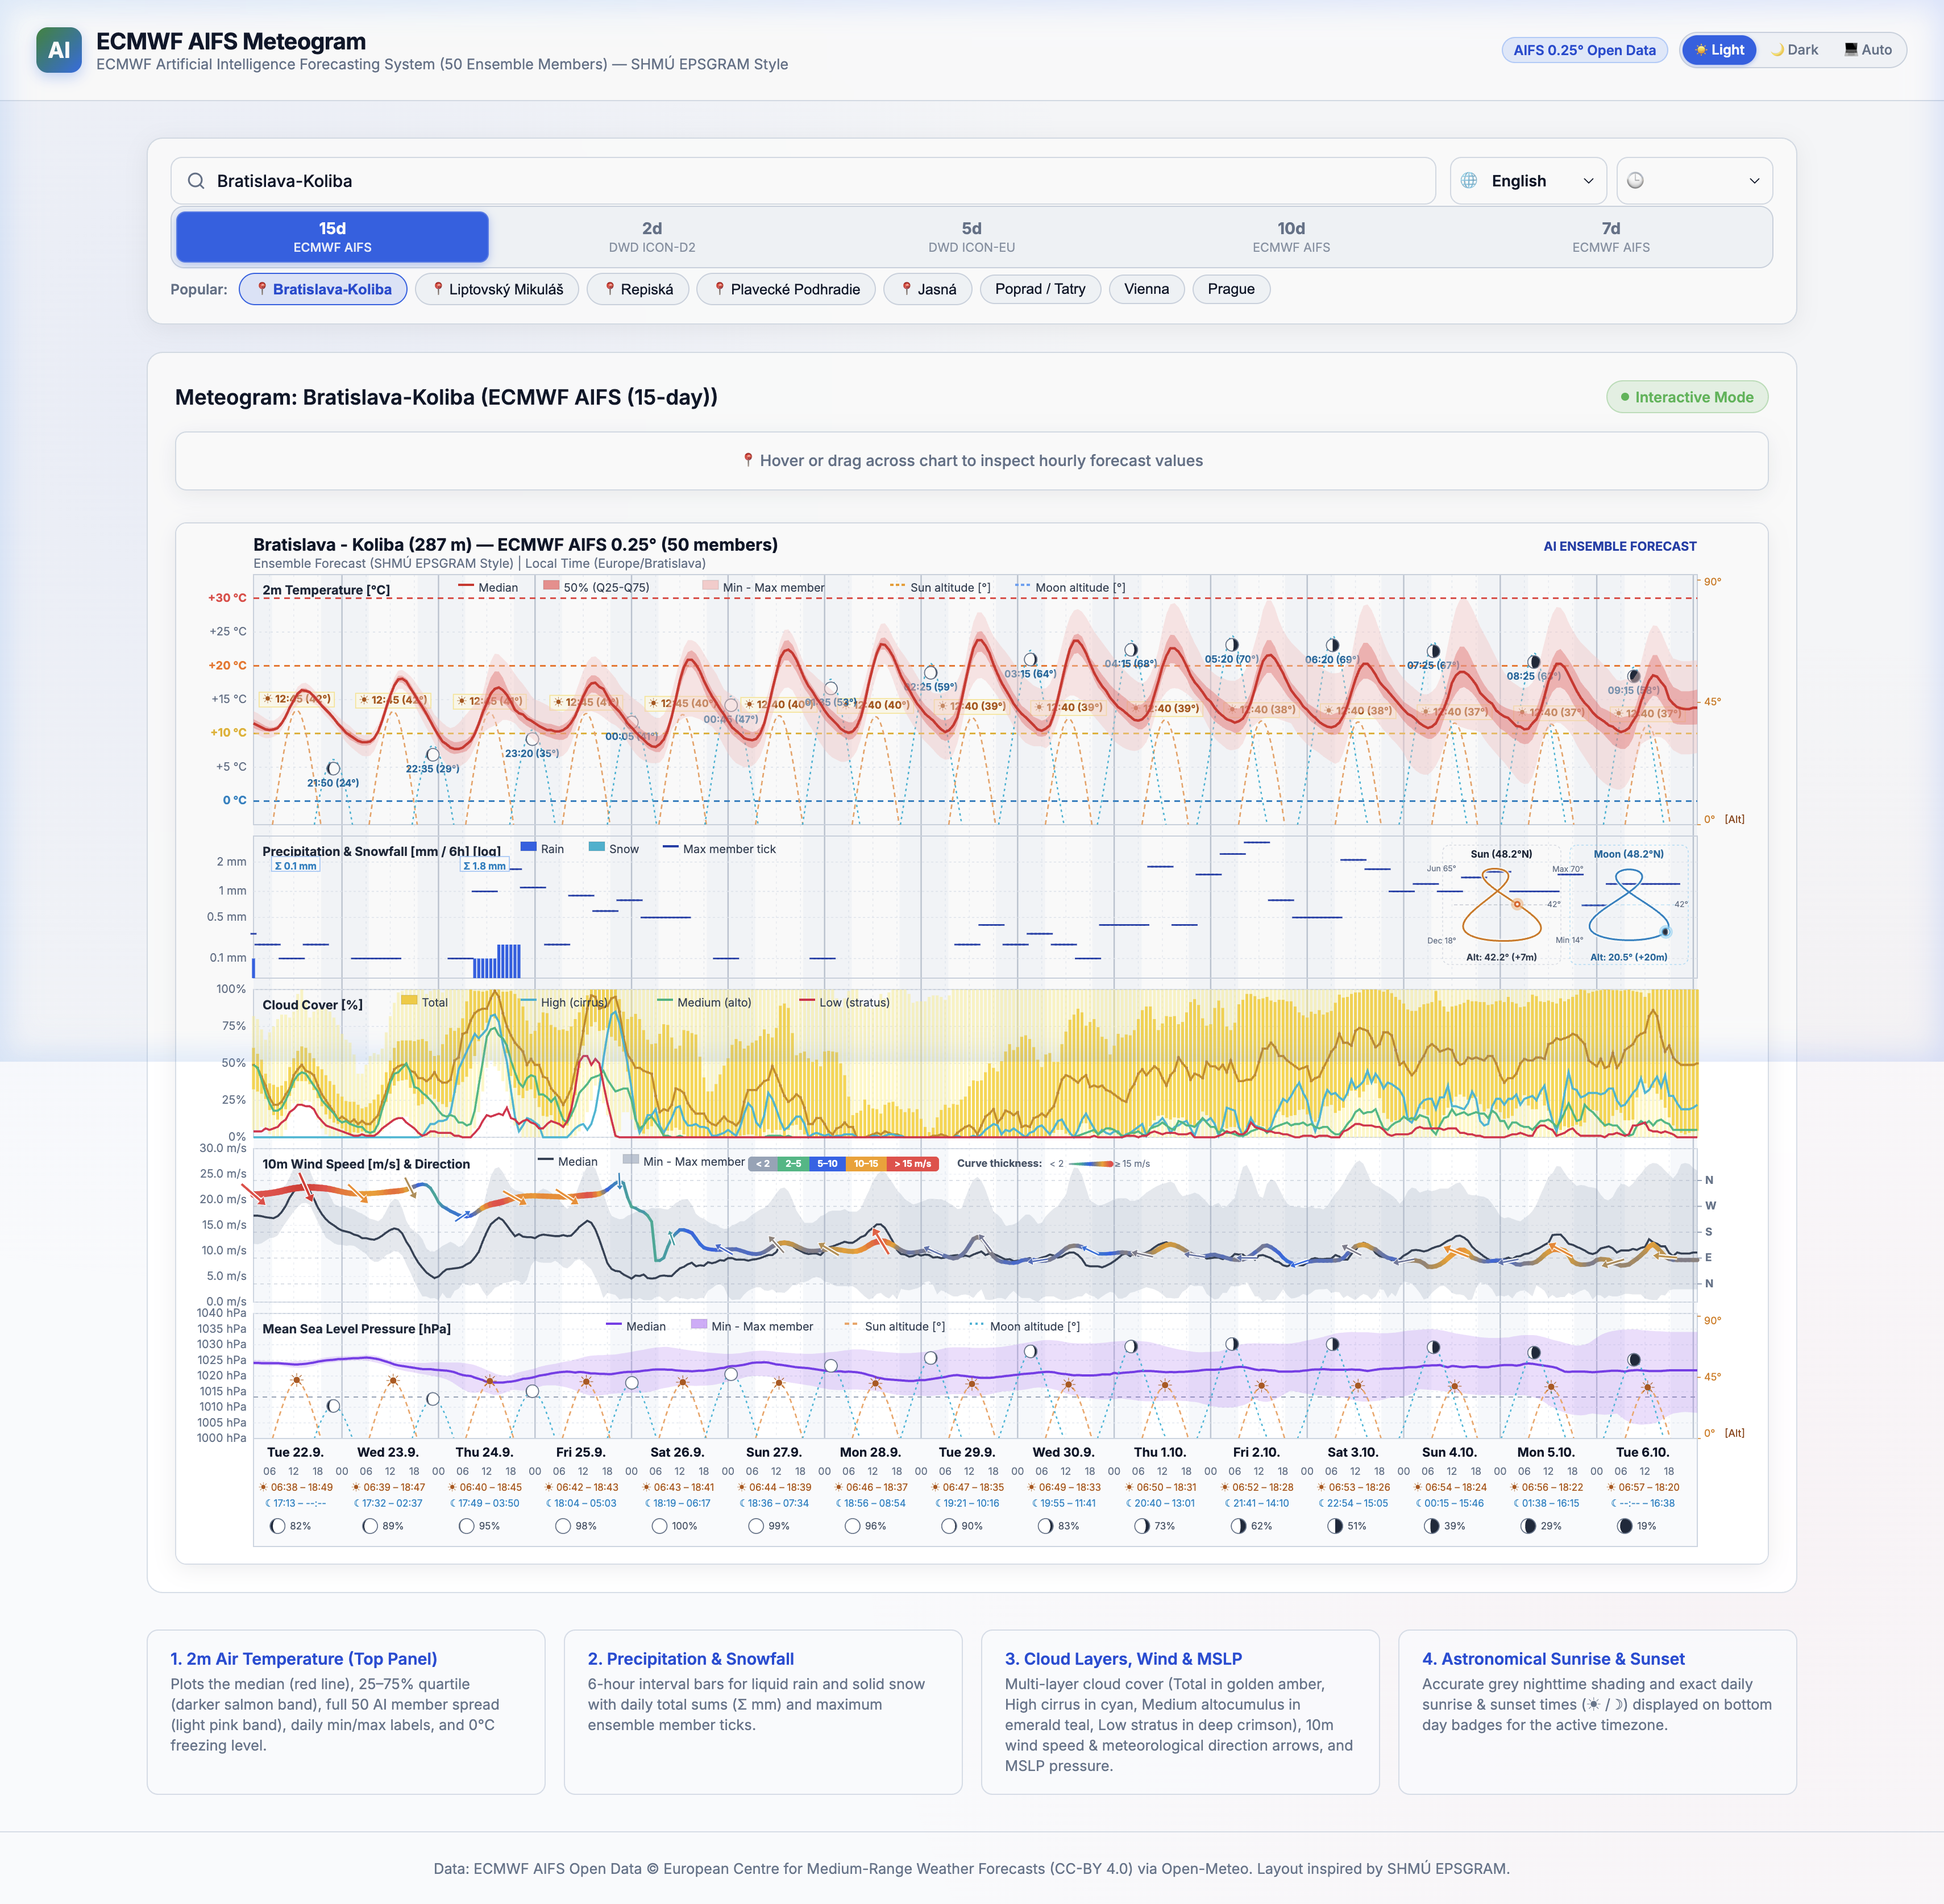
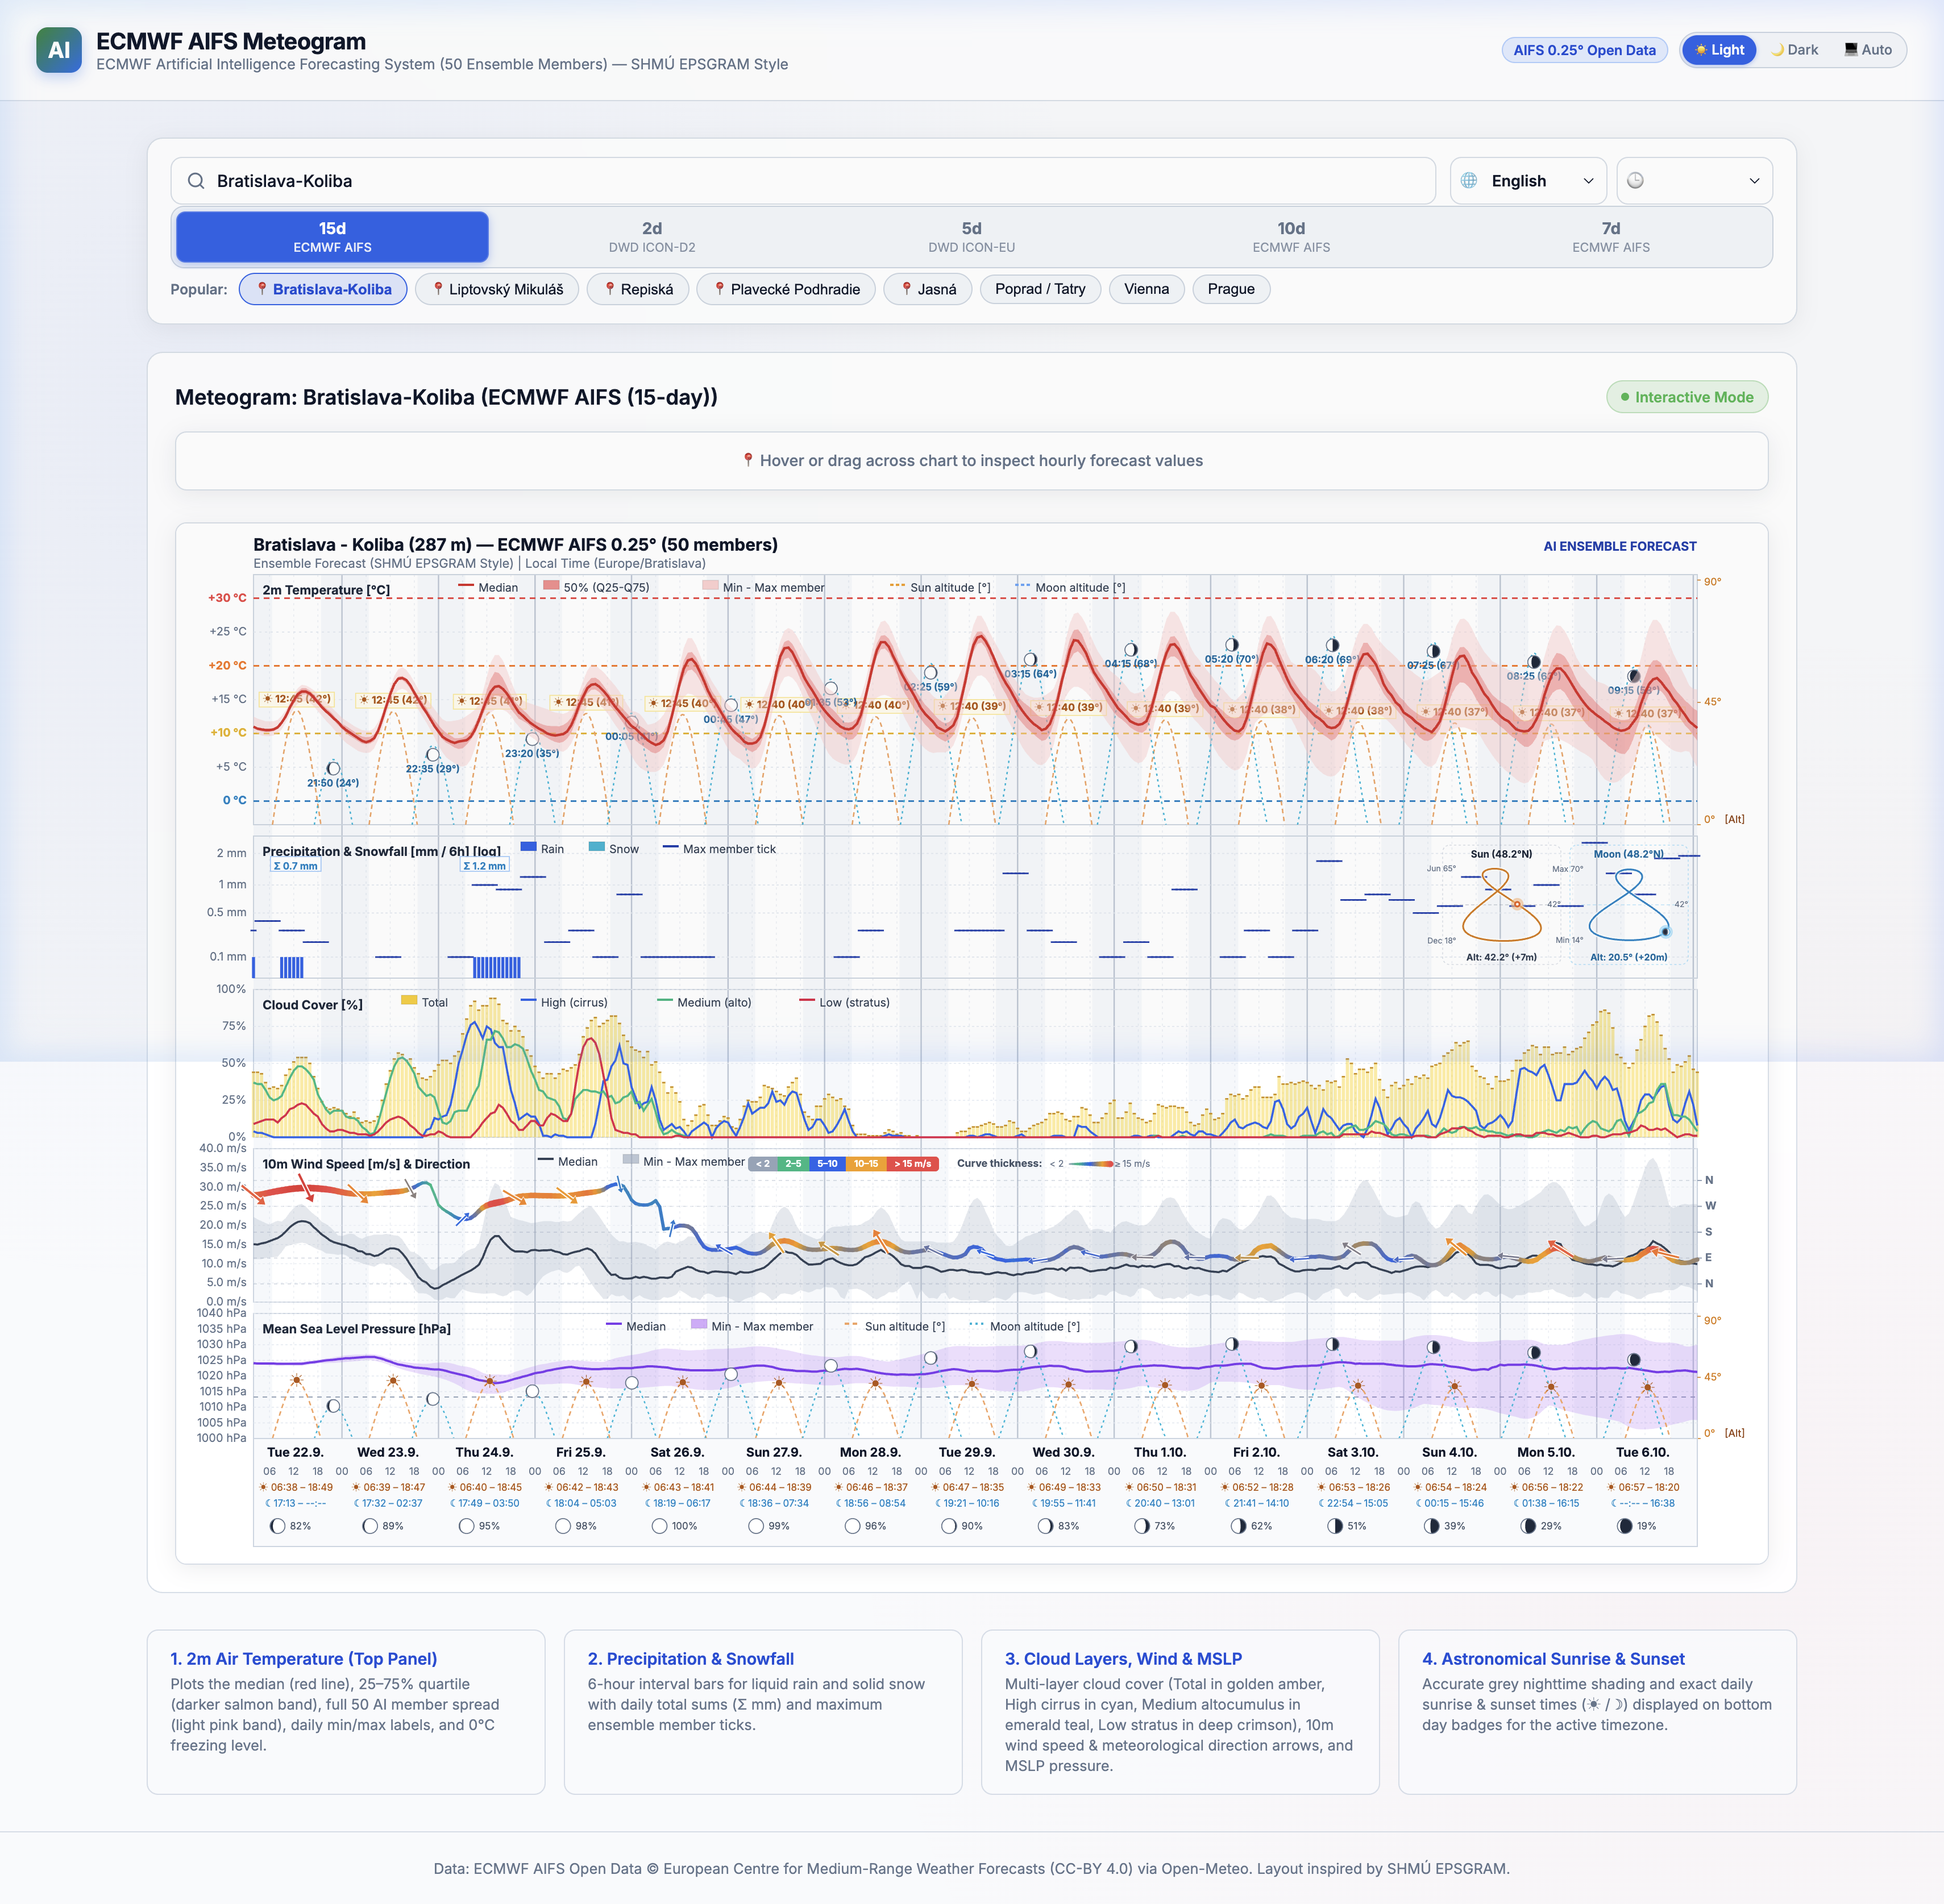
Simplify total cloud cover to histogram bins and change high clouds to distinct royal blue

diff --git a/web/meteogram-chart.js b/web/meteogram-chart.js
@@ -1651,70 +1651,36 @@ class MeteogramChart {
       ctx.fillText(`${v}%`, this.marginLeft - 6, y);
     }
 
-    // 1. Total Cloud Cover Bars with Percentiles (Yellow color)
+    // 1. Total Cloud Cover Histogram Bins (anchored at 0% baseline)
     const cTotal = stats.cloud_cover;
     const nTimes = this.times.length;
-    const barWidth = Math.max(2.5, (this.plotWidth / nTimes) * 0.72);
+    const barWidth = Math.max(2.5, (this.plotWidth / nTimes) * 0.80);
 
     if (cTotal && cTotal.median) {
       for (let i = 0; i < nTimes; i++) {
+        const med = cTotal.median[i];
+        if (med == null || med <= 0) continue;
+
         const x = this._timeToX(this.times[i].getTime());
-        const minVal = cTotal.min ? cTotal.min[i] : null;
-        const maxVal = cTotal.max ? cTotal.max[i] : null;
-        const q25 = cTotal.q25 ? cTotal.q25[i] : null;
-        const q75 = cTotal.q75 ? cTotal.q75[i] : null;
-        const med = cTotal.median ? cTotal.median[i] : null;
+        const yMed = valToY(Math.min(100.0, Math.max(0.0, med)));
+        const barH = p.bottom - yMed;
 
-        if (med == null) continue;
+        // Clean, simplified histogram bar anchored at 0%
+        ctx.fillStyle = "rgba(250, 204, 21, 0.42)"; // soft warm amber/yellow
+        ctx.fillRect(x - barWidth / 2, yMed, barWidth, barH);
 
-        if (minVal != null && maxVal != null && (maxVal > 0 || minVal > 0)) {
-          // Full ensemble spread: Min - Max (light translucent yellow)
-          const yMin = valToY(minVal);
-          const yMax = valToY(maxVal);
-          ctx.fillStyle = "rgba(254, 240, 138, 0.52)"; // #fef08a
-          ctx.fillRect(x - barWidth / 2, yMax, barWidth, Math.max(1.5, yMin - yMax));
-
-          // 50% interquartile spread: Q25 - Q75 (rich warm yellow)
-          if (q25 != null && q75 != null) {
-            const yQ25 = valToY(q25);
-            const yQ75 = valToY(q75);
-            ctx.fillStyle = "rgba(250, 204, 21, 0.82)"; // #facc15
-            ctx.fillRect(x - barWidth / 2, yQ75, barWidth, Math.max(1.5, yQ25 - yQ75));
-          }
-
-          // Median tick mark across the bar
-          const yMed = valToY(med);
-          ctx.strokeStyle = "#ca8a04"; // golden yellow
-          ctx.lineWidth = 1.8;
-          ctx.beginPath();
-          ctx.moveTo(x - barWidth / 2, yMed);
-          ctx.lineTo(x + barWidth / 2, yMed);
-          ctx.stroke();
-        } else if (med > 0) {
-          // Deterministic / single member: bar from 0 up to median
-          const yMed = valToY(med);
-          ctx.fillStyle = "rgba(250, 204, 21, 0.82)";
-          ctx.fillRect(x - barWidth / 2, yMed, barWidth, Math.max(1.5, p.bottom - yMed));
-        }
+        // Crisp top cap defining the bin top
+        ctx.strokeStyle = "#ca8a04"; // golden amber outline
+        ctx.lineWidth = 1.3;
+        ctx.beginPath();
+        ctx.moveTo(x - barWidth / 2, yMed);
+        ctx.lineTo(x + barWidth / 2, yMed);
+        ctx.stroke();
       }
-
-      // Median trajectory line connecting the medians across the bars
-      ctx.strokeStyle = "#ca8a04";
-      ctx.lineWidth = 1.8;
-      ctx.beginPath();
-      let started = false;
-      for (let i = 0; i < nTimes; i++) {
-        const v = cTotal.median[i];
-        if (v == null) continue;
-        const x = this._timeToX(this.times[i].getTime());
-        const y = valToY(v);
-        if (!started) { ctx.moveTo(x, y); started = true; } else ctx.lineTo(x, y);
-      }
-      ctx.stroke();
     }
 
-    // 2. High Clouds (cyan curve, median only)
-    this._drawCurve(stats.cloud_cover_high, valToY, "#06b6d4", 1.8);
+    // 2. High Clouds (royal blue curve, median only)
+    this._drawCurve(stats.cloud_cover_high, valToY, "#2563eb", 1.8);
 
     // 3. Mid Clouds (emerald green curve, median only)
     this._drawCurve(stats.cloud_cover_mid, valToY, "#10b981", 1.8);
@@ -1729,7 +1695,7 @@ class MeteogramChart {
     ctx.fillText(t.clouds, this.marginLeft + 8, p.top + 14);
 
     this._drawLegendBadge(this.marginLeft + 130, p.top + 9, "#facc15", t.total_clouds, true);
-    this._drawLegendBadge(this.marginLeft + 235, p.top + 9, "#06b6d4", t.high_clouds, false);
+    this._drawLegendBadge(this.marginLeft + 235, p.top + 9, "#2563eb", t.high_clouds, false);
     this._drawLegendBadge(this.marginLeft + 355, p.top + 9, "#10b981", t.mid_clouds, false);
     this._drawLegendBadge(this.marginLeft + 480, p.top + 9, "#e11d48", t.low_clouds, false);
 

diff --git a/MeteogramApp/Sources/Views/NativeMeteogramChartView.swift b/MeteogramApp/Sources/Views/NativeMeteogramChartView.swift
@@ -482,7 +482,7 @@ public struct NativeMeteogramChartView: View {
 
                 HStack(spacing: 12) {
                     legendItem(title: "Total (Bars)", color: Color(red: 250/255, green: 204/255, blue: 21/255))
-                    legendItem(title: "High (cirrus)", color: Color(red: 6/255, green: 182/255, blue: 212/255), isLine: true)
+                    legendItem(title: "High (cirrus)", color: Color(red: 37/255, green: 99/255, blue: 235/255), isLine: true)
                     legendItem(title: "Medium (alto)", color: Color(red: 16/255, green: 185/255, blue: 129/255), isLine: true)
                     legendItem(title: "Low (stratus)", color: Color(red: 225/255, green: 29/255, blue: 72/255), isLine: true)
                 }
@@ -518,52 +518,21 @@ public struct NativeMeteogramChartView: View {
 
     @ChartContentBuilder
     private func cloudBars(points: [TimeSeriesPoint]) -> some ChartContent {
-        // Full ensemble min-max spread
         ForEach(points) { p in
-            if let cMin = p.cloudTotalMin, let cMax = p.cloudTotalMax, (cMax > 0 || cMin > 0) {
+            if p.cloudTotalMedian > 0 {
                 BarMark(
                     x: .value("Time", p.date),
-                    yStart: .value("Min", cMin),
-                    yEnd: .value("Max", cMax)
+                    y: .value("Total Cloud Cover", p.cloudTotalMedian)
                 )
-                .foregroundStyle(Color(red: 254/255, green: 240/255, blue: 138/255).opacity(0.55))
-            } else if p.cloudTotalMin == nil && p.cloudTotalMedian > 0 {
-                // Deterministic / single-member fallback
-                BarMark(
-                    x: .value("Time", p.date),
-                    y: .value("Total", p.cloudTotalMedian)
-                )
-                .foregroundStyle(Color(red: 250/255, green: 204/255, blue: 21/255).opacity(0.82))
-            }
-        }
-
-        // 50% interquartile spread (Q25-Q75)
-        ForEach(points) { p in
-            if let cQ25 = p.cloudTotalQ25, let cQ75 = p.cloudTotalQ75, cQ75 > 0 {
-                BarMark(
-                    x: .value("Time", p.date),
-                    yStart: .value("Q25", cQ25),
-                    yEnd: .value("Q75", cQ75)
-                )
-                .foregroundStyle(Color(red: 250/255, green: 204/255, blue: 21/255).opacity(0.85))
+                .foregroundStyle(Color(red: 250/255, green: 204/255, blue: 21/255).opacity(0.42))
             }
         }
     }
 
     @ChartContentBuilder
     private func cloudLayerLines(points: [TimeSeriesPoint]) -> some ChartContent {
-        // 1. Total Cloud Median line (Golden amber)
-        ForEach(points) { p in
-            LineMark(
-                x: .value("Time", p.date),
-                y: .value("Total Median", p.cloudTotalMedian),
-                series: .value("Layer", "Total")
-            )
-            .foregroundStyle(Color(red: 202/255, green: 138/255, blue: 4/255))
-            .lineStyle(StrokeStyle(lineWidth: 1.8))
-        }
 
-        // 2. High Clouds: Blue / Cyan (#06b6d4)
+        // 1. High Clouds: Royal Blue (#2563eb)
         ForEach(points) { p in
             if let cHigh = p.cloudHigh {
                 LineMark(
@@ -571,7 +540,7 @@ public struct NativeMeteogramChartView: View {
                     y: .value("High", cHigh),
                     series: .value("Layer", "High")
                 )
-                .foregroundStyle(Color(red: 6/255, green: 182/255, blue: 212/255))
+                .foregroundStyle(Color(red: 37/255, green: 99/255, blue: 235/255))
                 .lineStyle(StrokeStyle(lineWidth: 1.8))
             }
         }

diff --git a/web/index.html b/web/index.html
@@ -680,11 +680,11 @@
     [data-theme="dark"] .hud-moon,
     :root:not([data-theme="light"]):not([data-theme="dark"]) .hud-moon { color: #93c5fd; }
 
-    .hud-cloud-h { color: #0284c7; font-weight: 700; }
+    .hud-cloud-h { color: #2563eb; font-weight: 700; }
     .hud-cloud-m { color: #059669; font-weight: 700; }
     .hud-cloud-l { color: #e11d48; font-weight: 700; }
     [data-theme="dark"] .hud-cloud-h,
-    :root:not([data-theme="light"]):not([data-theme="dark"]) .hud-cloud-h { color: #38bdf8; }
+    :root:not([data-theme="light"]):not([data-theme="dark"]) .hud-cloud-h { color: #60a5fa; }
     [data-theme="dark"] .hud-cloud-m,
     :root:not([data-theme="light"]):not([data-theme="dark"]) .hud-cloud-m { color: #34d399; }
     [data-theme="dark"] .hud-cloud-l,

diff --git a/server/renderer.py b/server/renderer.py
@@ -655,7 +655,7 @@ class MeteogramRenderer:
             zorder=6,
         )
 
-        # 2. High Clouds: Vivid Cyan / Sky Blue (#0096c7), thick line (lw=2.4)
+        # 2. High Clouds: Royal Blue (#2563eb), thick line (lw=2.4)
         if cloud_high is not None and "median" in cloud_high:
             c_high_smooth = self._smooth_curve(
                 num_times, cloud_high["median"], num_times_dense, clip_min=0.0, clip_max=100.0
@@ -663,7 +663,7 @@ class MeteogramRenderer:
             ax_cloud.plot(
                 num_times_dense,
                 c_high_smooth,
-                color="#0096c7",
+                color="#2563eb",
                 linewidth=2.4,
                 label=f"{self.t['cloud_high']}",
                 zorder=5,

diff --git a/README.md b/README.md
@@ -166,8 +166,8 @@ python3 server/meteogram.py --location "48.148,17.107" --output custom_coords.pn
      - **Solar Analemma**: Annual figure-8 tracking solar declination against the Equation of Time ($+16\text{m}$ to $-14\text{m}$) for the active location.
      - **Lunar Analemma**: Closed monthly figure-8 loop reflecting orbital inclination to the celestial equator and Equation of Time harmonics, with an illuminated phase-accurate Moon marker locked strictly on the curve.
 3. **Multi-layer Cloud Cover (%)**:
-   - **Total Cloud Cover**: Yellow vertical percentile bars with light yellow min-max spread, warm yellow Q25–Q75 interquartile bars, and golden median ticks and trajectory line.
-   - **Cloud Layers (Single Curves)**: High Cirrus (cyan `#06b6d4`), Medium Alto (emerald `#10b981`), and Low Stratus (crimson `#e11d48`) rendered as clean single median lines.
+   - **Total Cloud Cover**: Clean, simplified amber histogram bins anchored at 0% baseline representing total cloud volume across time.
+   - **Cloud Layers (Single Curves)**: High Cirrus (royal blue `#2563eb`), Medium Alto (emerald `#10b981`), and Low Stratus (crimson `#e11d48`) rendered as distinct, vibrant median lines.
 4. **10m Wind Speed & Direction**:
    - **Continuous 5-Point Direction Loop**: Mapped to `N` (top), `W`, `S`, `E`, and `N` (bottom) across a unified, continuous grid to prevent discontinuous edge jumps for north-westerly and northerly winds.
    - **Dual Speed Encoding**:
